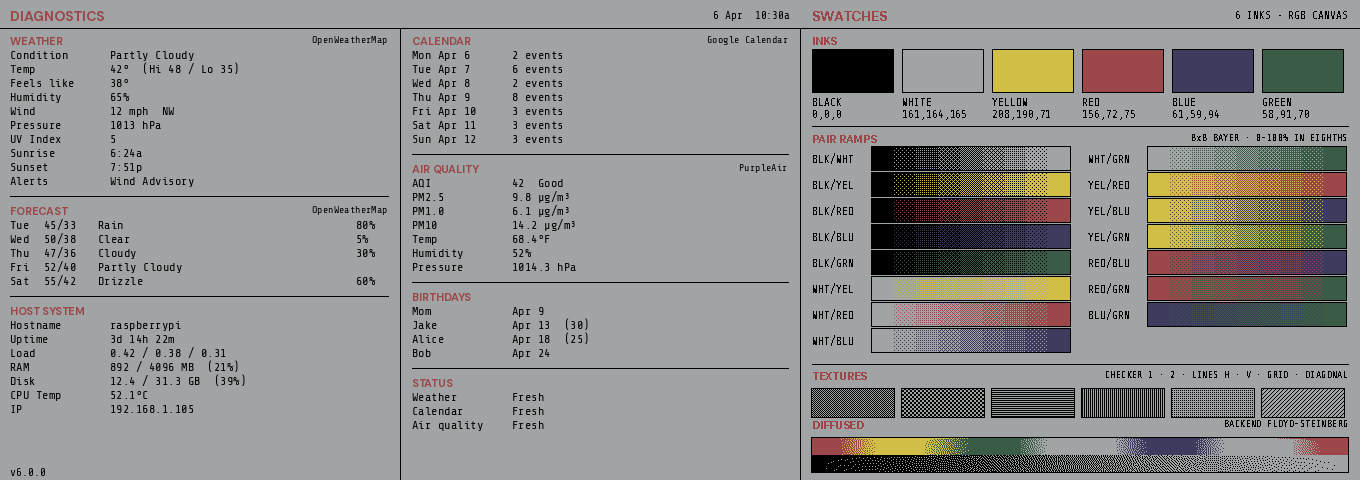
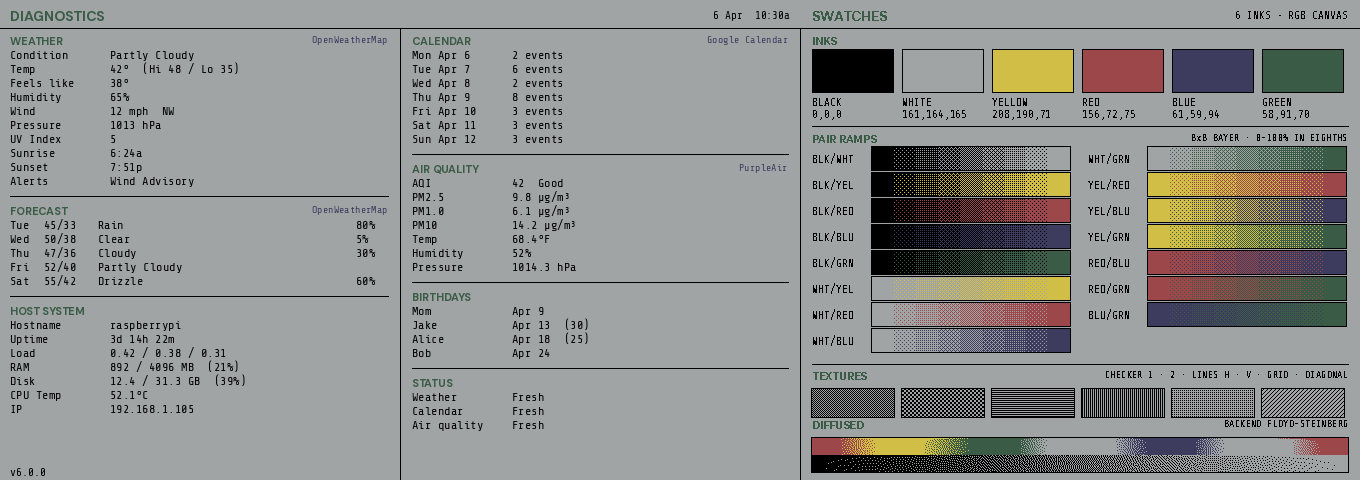
wide_diags: register diags' accent pair so the left pane is unchanged
The diags component on the left shares the theme's style, so registering
red/black recoloured its headings on the colour panels (red on the G
panel, both accents on Inky). Register diags' own green/blue pair, and
compare the left 800 px against diags pixel for pixel, colours included,
on mono, G and Inky rather than by shape.

Claude-Session: https://claude.ai/code/session_0117FD3yu5uAz194S9tNQ3uf

diff --git a/tests/test_wide_diags_theme.py b/tests/test_wide_diags_theme.py
@@ -143,19 +143,14 @@ class TestPlate:
         assert img.size == (1360, 480)
         assert set(np.unique(np.asarray(img.convert("L")))) <= {0, 255}
 
-    @pytest.mark.parametrize("config", [MONO, G_PANEL], ids=["mono", "g"])
+    @pytest.mark.parametrize("config", [MONO, G_PANEL, INKY], ids=["mono", "g", "inky"])
     def test_left_half_is_the_diags_theme(self, config):
+        # Pixel for pixel, accent colours included: the two themes share a
+        # style, so a different registered palette would recolour the headings.
         wide = _render(config).crop((0, 0, 800, 480))
-        narrow_cfg = DisplayConfig(model=config.model, width=800, height=480)
-        diags = _render(narrow_cfg, theme="diags")
-        if config is G_PANEL:
-            # Same readout, but diags names its own accent pair; compare shape.
-            wide, diags = wide.convert("L").point(_ink), diags.convert("L").point(_ink)
+        narrow = DisplayConfig(provider=config.provider, model=config.model, width=800, height=480)
+        diags = _render(narrow, theme="diags")
         assert np.array_equal(np.asarray(wide), np.asarray(diags))
-
-
-def _ink(v: int) -> int:
-    return 0 if v < 250 else 255
 
 
 class TestTheme:

diff --git a/src/render/themes/wide_diags.py b/src/render/themes/wide_diags.py
@@ -20,8 +20,8 @@ from __future__ import annotations
 
 from src.render.fonts import cyber_mono, dm_bold, dm_medium
 from src.render.theme import (
-    INKY_BLACK,
-    INKY_RED,
+    INKY_BLUE,
+    INKY_GREEN,
     ComponentRegion,
     Theme,
     ThemeLayout,
@@ -69,7 +69,9 @@ def wide_diags_theme() -> Theme:
 def _register() -> None:
     from src.render.themes.registry import register_theme
 
-    register_theme("wide_diags", wide_diags_theme, inky_palette=(INKY_RED, INKY_BLACK))
+    # diags' own pair: the left pane shares this style, so any other pair would
+    # recolour its headings and it would no longer be the diags readout.
+    register_theme("wide_diags", wide_diags_theme, inky_palette=(INKY_GREEN, INKY_BLUE))
 
 
 _register()

diff --git a/docs/inky-previews.md b/docs/inky-previews.md
@@ -352,7 +352,7 @@ Accents: **green** primary, **blue** secondary · [description in Themes ↗](th
 
 #### wide_diags
 
-Accents: **red** primary, **black** secondary · [description in Themes ↗](themes.md#wide_diags)
+Accents: **green** primary, **blue** secondary · [description in Themes ↗](themes.md#wide_diags)
 
 [![Wide diags theme on Inky](../assets/previews/theme_wide_diags_inky.png)](../assets/previews/theme_wide_diags_inky.png)
 
